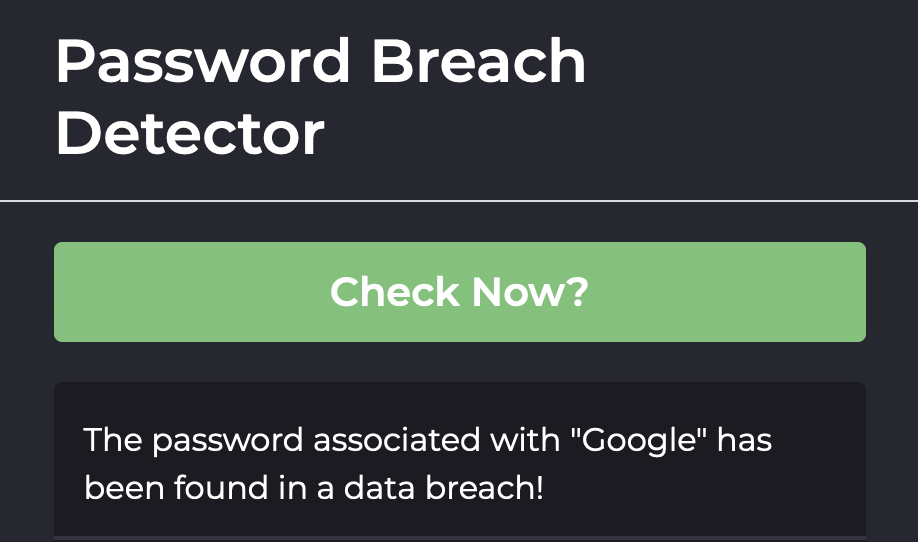
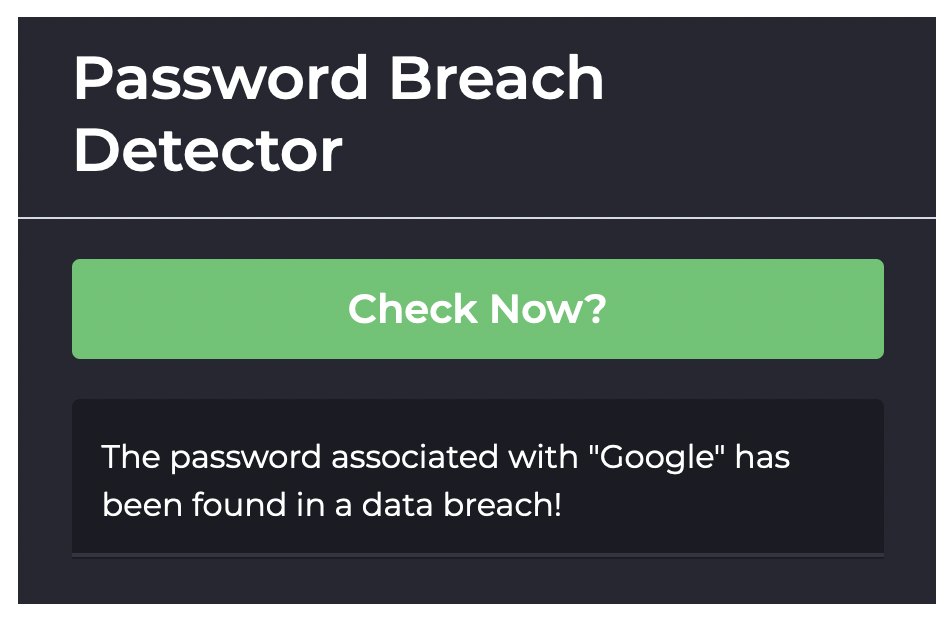
Minor Fixes 1

diff --git a/website/templates/documentation.html b/website/templates/documentation.html
@@ -48,7 +48,7 @@
         </div>
         <div class="blog-section">
             <h2 class="subtitle">What Information is Collected?</h2>
-                <p class="body-text">Information collected and stored includes your login username and password, as well as any information you enter into the form for creating new items, like: name, username, password, and URL. We do not collect ANY other data, this cna be confirmed by auditing out code, available by clicking <a href="https://github.com/CAC-TX06/PeakPass" id="source-code-here">here</a>.</p>
+                <p class="body-text">Information collected and stored includes your login username and password, as well as any information you enter into the form for creating new items, like: name, username, password, and URL. We do not collect ANY other data, this cna be confirmed by auditing out code, available by clicking <a href="https://github.com/CAC-TX06/PeakPass" id="source-code-here" class="source-code-click">here</a>.</p>
         </div>
       </div>
   </body>
@@ -211,6 +211,12 @@
   .body-text {
     font-size: 20px;
     text-align: left;
+  }
+
+  #source-code-here {
+    font-weight: 600;
+    font-size: 20px;
+    color: white;
   }
 
   #source-code-here:hover {

diff --git a/website/templates/index.html b/website/templates/index.html
@@ -61,7 +61,7 @@
   <section class="section">
       <div class="section-inner">
         <div class="section-img">
-          <img src="{{ url_for('static', filename='data_breach.png') }}" alt="Breach Detection"/>
+          <img src="{{ url_for('static', filename='data_breach-test.png') }}" alt="Breach Detection"/>
         </div>
         <div class="section-text">
             <h1>Convenient Breach Detection</h1>
@@ -365,6 +365,7 @@
     color: #cacbcc;
     line-height: 1.8em;
     margin-top: 5px;
+    font-weight: 600;
   }
 
   #source-code-here:hover {
